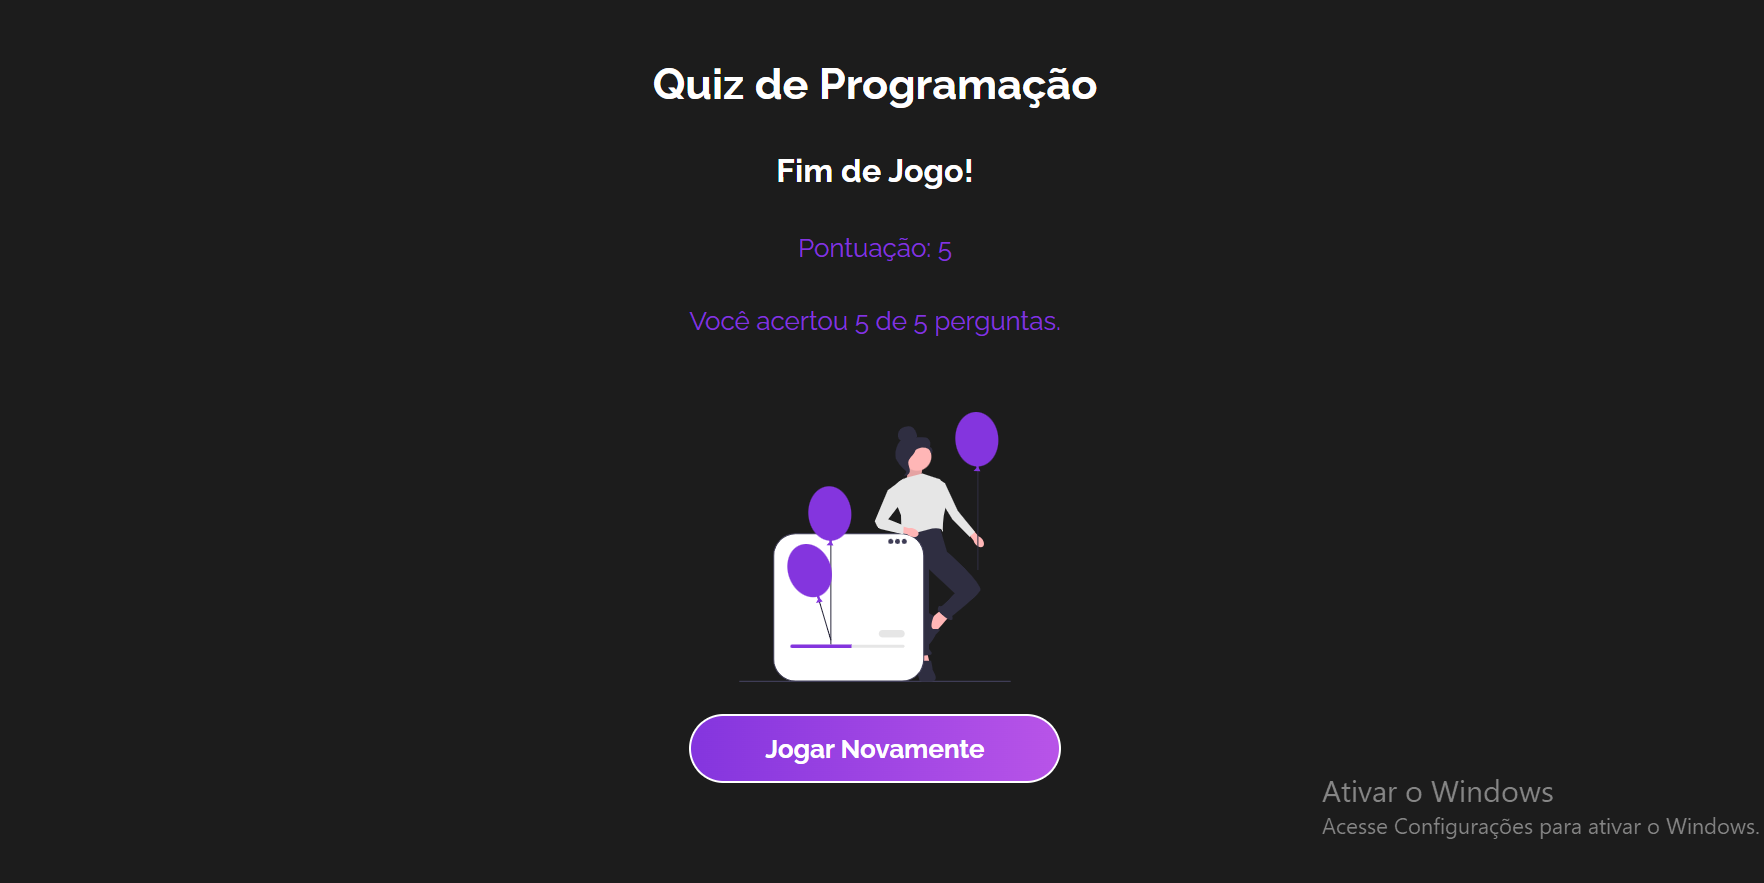
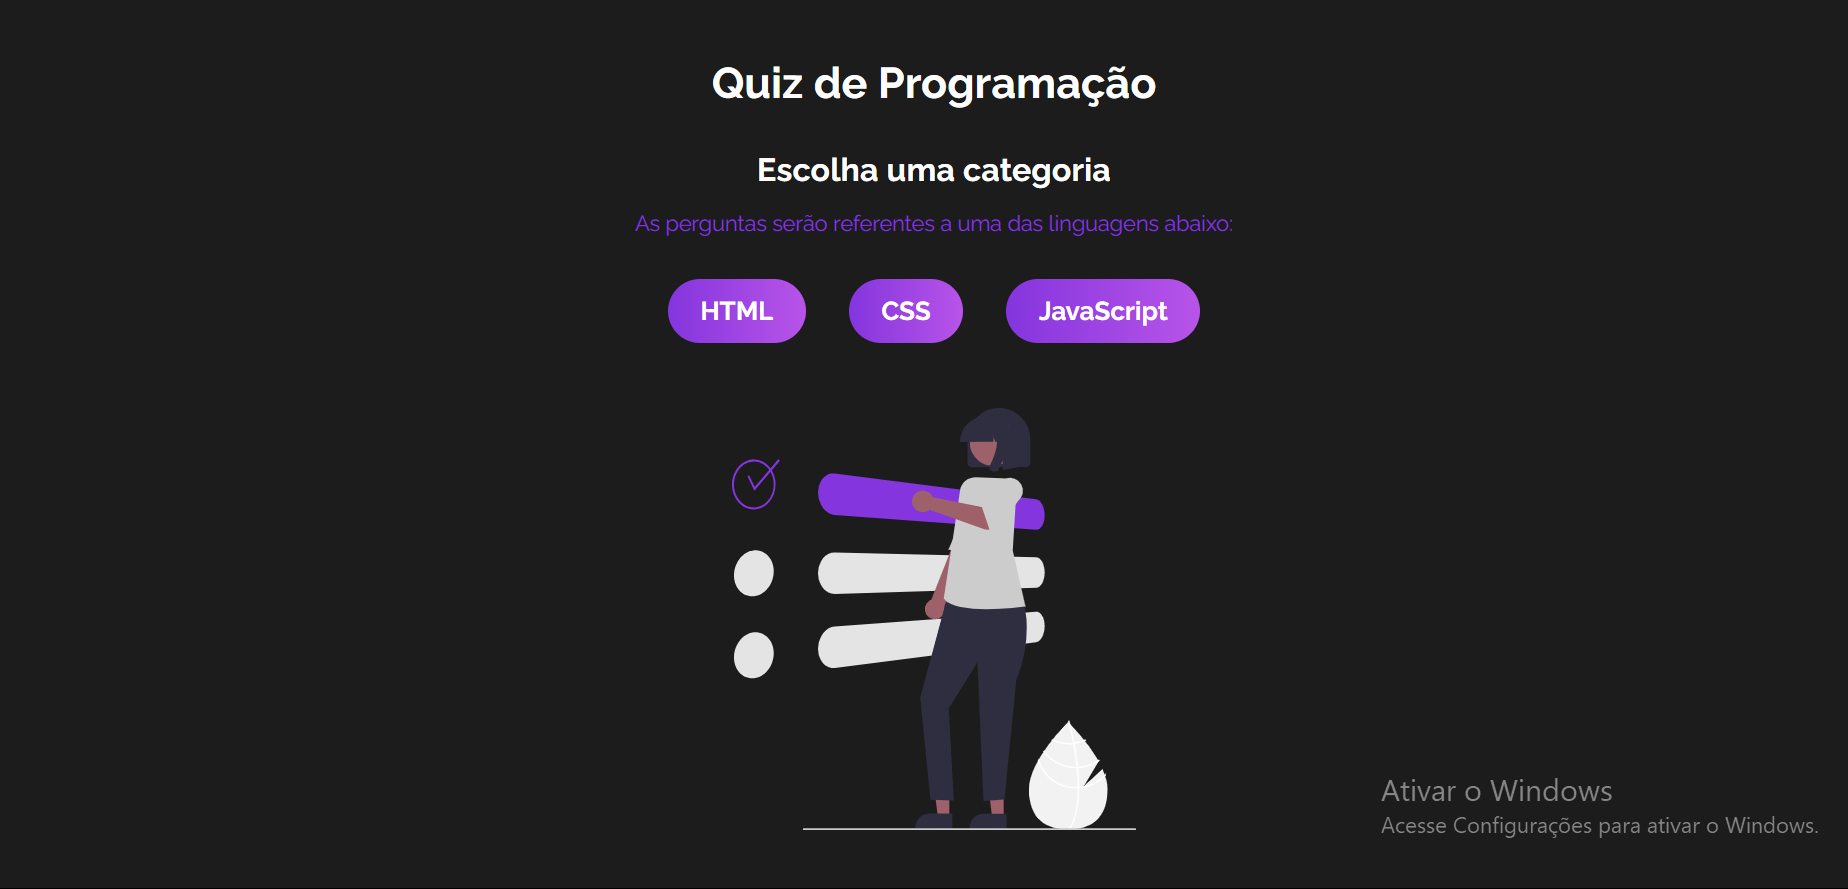
Atualizando Projeto

diff --git a/src/context/quiz.jsx b/src/context/quiz.jsx
@@ -5,20 +5,21 @@
 
 // usando o Reducer conseguimos gerenciar estados mais complexos com mais facilidade
 import { createContext, useReducer } from 'react'
-import question from '../data/questions'
+import questions from '../data/questions_complete'
 
 // determinando os estagios do jogo
-const STAGES = ["Start", "Playing", "End"]
+const STAGES = ["Start", "Category", "Playing", "End"]
 
 // inicializando estados
 const initialState = {
     gameStage: STAGES[0],
-    question,
+    questions,
     currentQuestion: 0,
     answerSelected: false,
     score: 0,
-    
-}
+    help: false,
+    optionToHide: null,
+};
 
 // alterando o estado da aplicação
 const QuizReducer = (state, action) => {
@@ -30,35 +31,55 @@ const QuizReducer = (state, action) => {
                 gameStage: STAGES[1],
             };
 
+        case "START_GAME":
+            // estado inicial do jogo
+            let quizQuestions = null;
+
+            state.questions.forEach((question) => {
+                if (question.category === action.payload) {
+                    quizQuestions = question.questions;
+                }
+            });
+
+            return {
+                ...state,
+                questions: quizQuestions,
+                gameStage: STAGES[2],
+            };
+
         case "REORDER_QUESTIONS":
             // reordenar as peguntas
-            const reorderedQuestions = question.sort(() => {
+            const reorderedQuestions = state.questions.sort(() => {
                 return Math.random() - 0.5;
             });
 
             return {
                 ...state,
-                question: reorderedQuestions,
+                questions: reorderedQuestions,
             };
 
-        case "CHANGE_QUESTION":
+        case "CHANGE_QUESTION": {
             // seguir para proxima pergunta
             const nextQuestion = state.currentQuestion + 1;
 
             let endGame = false;
             // verificando se chegou no fim das peguntas
-            if (!question[nextQuestion]) {
+            if (!state.questions[nextQuestion]) {
                 endGame = true;
             }
 
             return {
                 ...state,
                 currentQuestion: nextQuestion,
-                gameStage: endGame ? STAGES[2] : state.gameStage,
+                gameStage: endGame ? STAGES[3] : state.gameStage,
                 answerSelected: false,
-            }
+                help: false,
+            };
+        }
 
         case "NEW_GAME":
+            console.log(questions);
+            console.log(initialState);
             return initialState;
         // reiniciando o jogo       
         // voltando para o estado inicial    
@@ -66,25 +87,55 @@ const QuizReducer = (state, action) => {
         case "CHECK_ANSWER": {
             // validando a resposta do usuário
             if (state.answerSelected) return state;
-      
+
             const answer = action.payload.answer;
             const option = action.payload.option;
             let correctAnswer = 0;
-      
+
             if (answer === option) correctAnswer = 1;
-      
+
             return {
-              ...state,
-              score: state.score + correctAnswer,
-              answerSelected: option,
+                ...state,
+                score: state.score + correctAnswer,
+                answerSelected: option,
             };
-          }
+        }
+        case "SHOW_TIP": {
+            // pegando o state da dica
+            return {
+                ...state,
+                help: "tip",
+            };
+        }
+
+        case "REMOVE_OPTION": {
+            const questionWithoutOption = state.questions[state.currentQuestion];
+
+            console.log(state.currentQuestion);
+
+            console.log(questionWithoutOption);
+
+            let repeat = true;
+            let optionToHide;
+
+            questionWithoutOption.options.forEach((option) => {
+                if (option !== questionWithoutOption.answer && repeat) {
+                    optionToHide = option;
+                    repeat = false;
+                }
+            });
+
+            return {
+                ...state,
+                optionToHide,
+                help: true,
+            };
+        }
 
         default:
             return state;
     }
-
-}
+};
 
 // criando e exportando o arquivo context
 export const QuizContext = createContext()
@@ -100,4 +151,3 @@ export const QuizProvider = ({ children }) => {
 
     return <QuizContext.Provider value={value}>{children}</QuizContext.Provider>
 };
-

diff --git a/src/components/Question.jsx b/src/components/Question.jsx
@@ -7,7 +7,7 @@ import "./Question.css";
 
 const Question = () => {
   const [quizState, dispatch] = useContext(QuizContext);
-  const currentQuestion = quizState.question[quizState.currentQuestion];
+  const currentQuestion = quizState.questions[quizState.currentQuestion];
 
   const onSelectOption = (option) => {
     dispatch({
@@ -19,8 +19,8 @@ const Question = () => {
   return (
     <div id="question"> 
       <p>
-        Pergunta {quizState.currentQuestion + 1} de {quizState.question.length}
-        </p>
+        Pergunta {quizState.currentQuestion + 1} de {quizState.questions.length}
+      </p>
       <h2>{currentQuestion.question}</h2>
       <div id="options-container">
         {currentQuestion.options.map((option) => (
@@ -29,15 +29,30 @@ const Question = () => {
             key={option}
             answer={currentQuestion.answer}
             selectOption={() => onSelectOption(option)}
+            hide={quizState.optionToHide === option ? "hide" : null}
           />
         ))}
       </div>
+      {!quizState.answerSelected && !quizState.help && (
+        <>
+          {currentQuestion.tip && (
+            <button onClick={() => dispatch({ type: "SHOW_TIP" })}>Dica</button>
+          )}
+          <button onClick={() => dispatch({ type: "REMOVE_OPTION" })}>
+            Excluir uma Opção
+          </button>
+        </>
+      )}
+      {!quizState.answerSelected && quizState.help === "tip" && (
+        <p>{currentQuestion.tip}</p>
+      )}
       {quizState.answerSelected && (
-        <button onClick={() => dispatch({ type: "CHANGE_QUESTION" })}>Continuar</button>
+        <button onClick={() => dispatch({ type: "CHANGE_QUESTION" })}>
+          Continuar
+        </button>
       )}
     </div>
-  )
-
-}
+  );
+};
 
 export default Question

diff --git a/src/components/ChooseCategory.jsx b/src/components/ChooseCategory.jsx
@@ -1,0 +1,36 @@
+import { useContext } from "react";
+
+import { QuizContext } from "../context/quiz";
+
+import Category from "../img/category.svg";
+
+import "./ChooseCategory.css";
+
+const PickCategory = () => {
+  const [quizState, dispatch] = useContext(QuizContext);
+
+  function chooseCategoryAndReorderQuestions(category) {
+    dispatch({ type: "START_GAME", payload: category });
+
+    dispatch({ type: "REORDER_QUESTIONS" });
+  }
+
+  return (
+    <div id="category">
+      <h2>Escolha uma categoria</h2>
+      <p>As perguntas serão referentes a uma das linguagens abaixo:</p>
+      {quizState.questions.map((question) => (
+        <button
+          onClick={() => chooseCategoryAndReorderQuestions(question.category)}
+          key={question.category}
+        >
+          {question.category}
+        </button>
+      ))}
+
+      <img src={Category} alt="Categoria do Quiz" />
+    </div>
+  );
+};
+
+export default PickCategory;

diff --git a/src/components/GameOver.jsx b/src/components/GameOver.jsx
@@ -6,15 +6,17 @@ import WellDone from "../img/welldone.svg";
 import "./GameOver.css";
 
 const GameOver = () => {
-    const [quizState, dispatch] = useContext(QuizContext); 
+  const [quizState, dispatch] = useContext(QuizContext);
 
   return (
     <div id="gameover">
-        <h2>Fim de Jogo!</h2>
-        <p>Pontuação: {quizState.score}</p>
-        <p>Você acertou {quizState.score} de {quizState.question.length} perguntas.</p>
-        <img src={WellDone} alt="Fim do Quiz" />
-        <button onClick={() => dispatch({ type: "NEW_GAME" })}>Jogar Novamente</button>
+      <h2>Fim de Jogo!</h2>
+      <p>Pontuação: {quizState.score}</p>
+      <p>Você acertou {quizState.score} de {quizState.questions.length}{" "}
+        perguntas.
+      </p>
+      <img src={WellDone} alt="Fim do Quiz" />
+      <button onClick={() => dispatch({ type: "NEW_GAME" })}>Jogar Novamente</button>
 
     </div>
   )

diff --git a/src/components/Option.jsx b/src/components/Option.jsx
@@ -3,14 +3,20 @@ import { QuizContext } from "../context/quiz";
 
 import "./Option.css";
 
-const Option = ({ option, selectOption, answer }) => {
+const Option = ({ option, selectOption, answer, hide }) => {
     const [quizState, dispatch] = useContext(QuizContext);
 
     return (
-        <div onClick={() => selectOption()}
-            className={`option ${quizState.answerSelected && option === answer ? "correct" : "" } 
+        <div 
+            onClick={() => selectOption()}
+            className={`
+            option 
+            ${quizState.answerSelected && option === answer ? "correct" : ""} 
             ${quizState.answerSelected && option !== answer ? "wrong" : ""
-                }`} >
+                }
+                ${hide ? "hide" : ""}
+                `}
+        >
             <p>{option}</p>
         </div>
     )

diff --git a/src/App.jsx b/src/App.jsx
@@ -6,21 +6,19 @@ import { QuizContext } from './context/quiz';
 import Welcome from './components/Welcome'
 import Question from './components/Question';
 import GameOver from './components/GameOver';
+import ChooseCategory from './components/ChooseCategory';
 
 import './App.css'
 
 function App() {
   const [quizState, dispatch] = useContext(QuizContext); 
 
-  useEffect(() => {
-    // reordenar as perguntas
-    dispatch({ type: "REORDER_QUESTIONS"});
-  }, []);
 
   return(
       <div className="App">
         <h1>Quiz de Programação</h1>
         {quizState.gameStage === "Start" && <Welcome />}
+        {quizState.gameStage === "Category" && <ChooseCategory />}
         {quizState.gameStage === "Playing" && <Question />}
         {quizState.gameStage === "End" && <GameOver />}
       </div>

diff --git a/src/components/ChooseCategory.css b/src/components/ChooseCategory.css
@@ -1,0 +1,23 @@
+#category {
+    text-align: center;
+    max-width: 500px;
+  }
+  
+  #category h2,
+  #category p {
+    margin-bottom: 1rem;
+  }
+  
+  #category p {
+    color: #8435de;
+    
+  }
+  
+  #category img {
+    margin-top: 2rem;
+    max-width: 300px;
+  }
+  
+  #category button {
+    margin: 1rem;
+  }

diff --git a/README.md b/README.md
@@ -11,6 +11,12 @@ Com um design bem atual e organizado, passa ao usuário uma ótima experiência 
 
 <h2>Autor: Pedro Cezar Alves da Silva Beserra. <h2>
 
+<h2>Linguagens que foram utilizadas: <h2>
+- HTML
++ CSS
+* Javascript
+- Framework React.js
+
 # Link
 Acesse o Link do meu projeto, use a plataforma e tenha uma experiência única:
 
@@ -22,5 +28,7 @@ Aqui temos a captura de tela do projeto:
 ![screenshot](src/img/print.png)
 
 ![screenshot](src/img/print1.png)
+
+![screenshot](src/img/print2.png)
 
 ![screenshot](src/img/print2.png)
